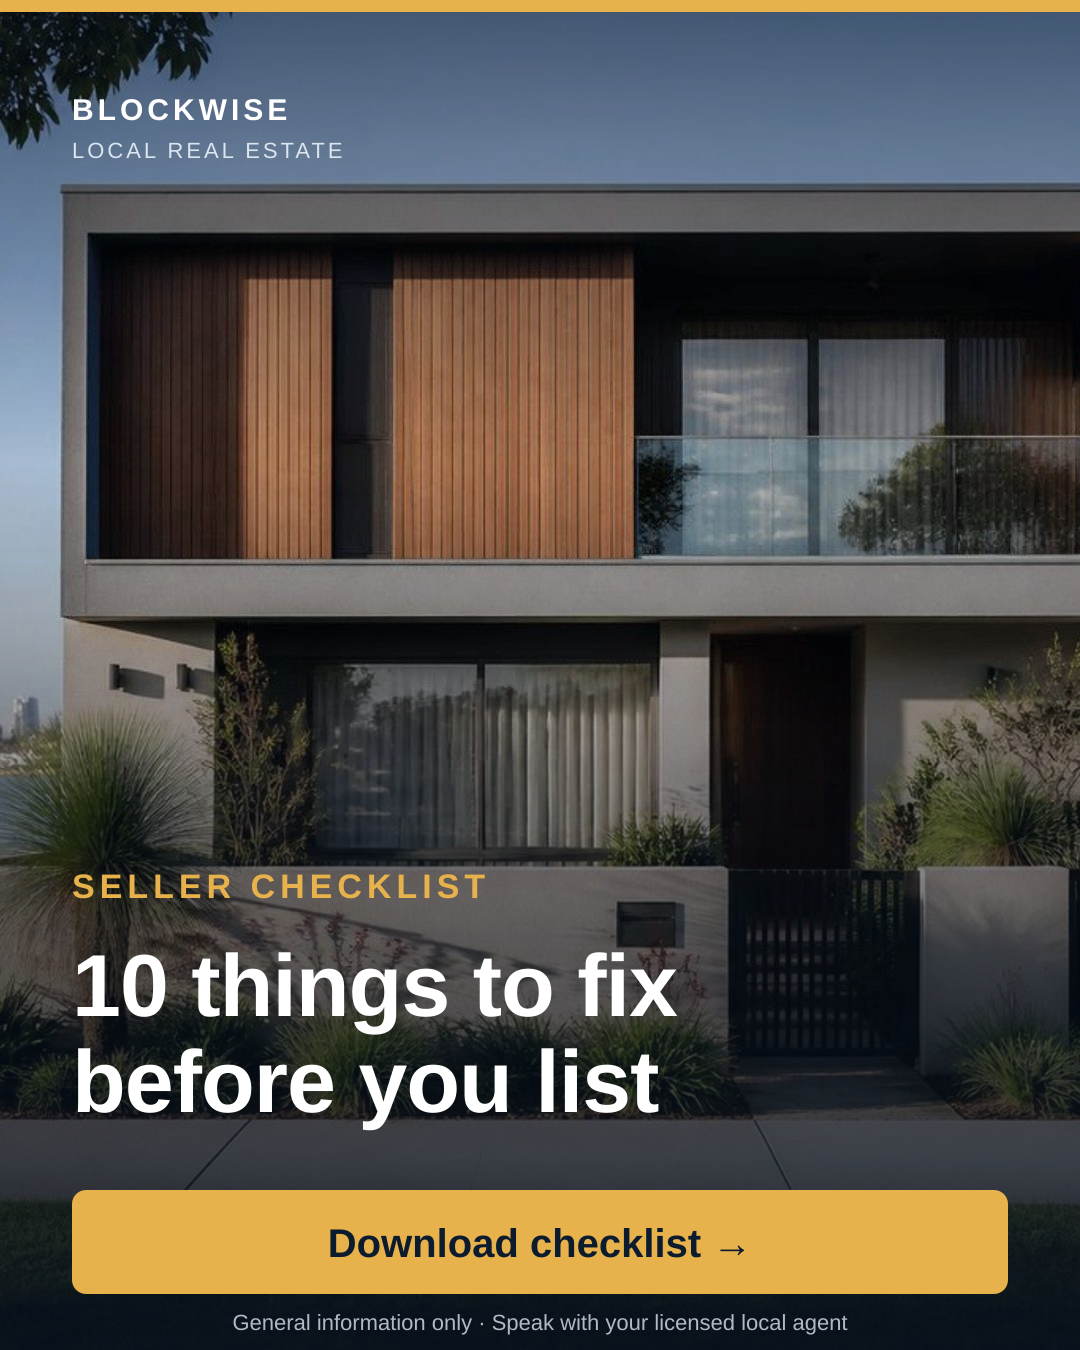
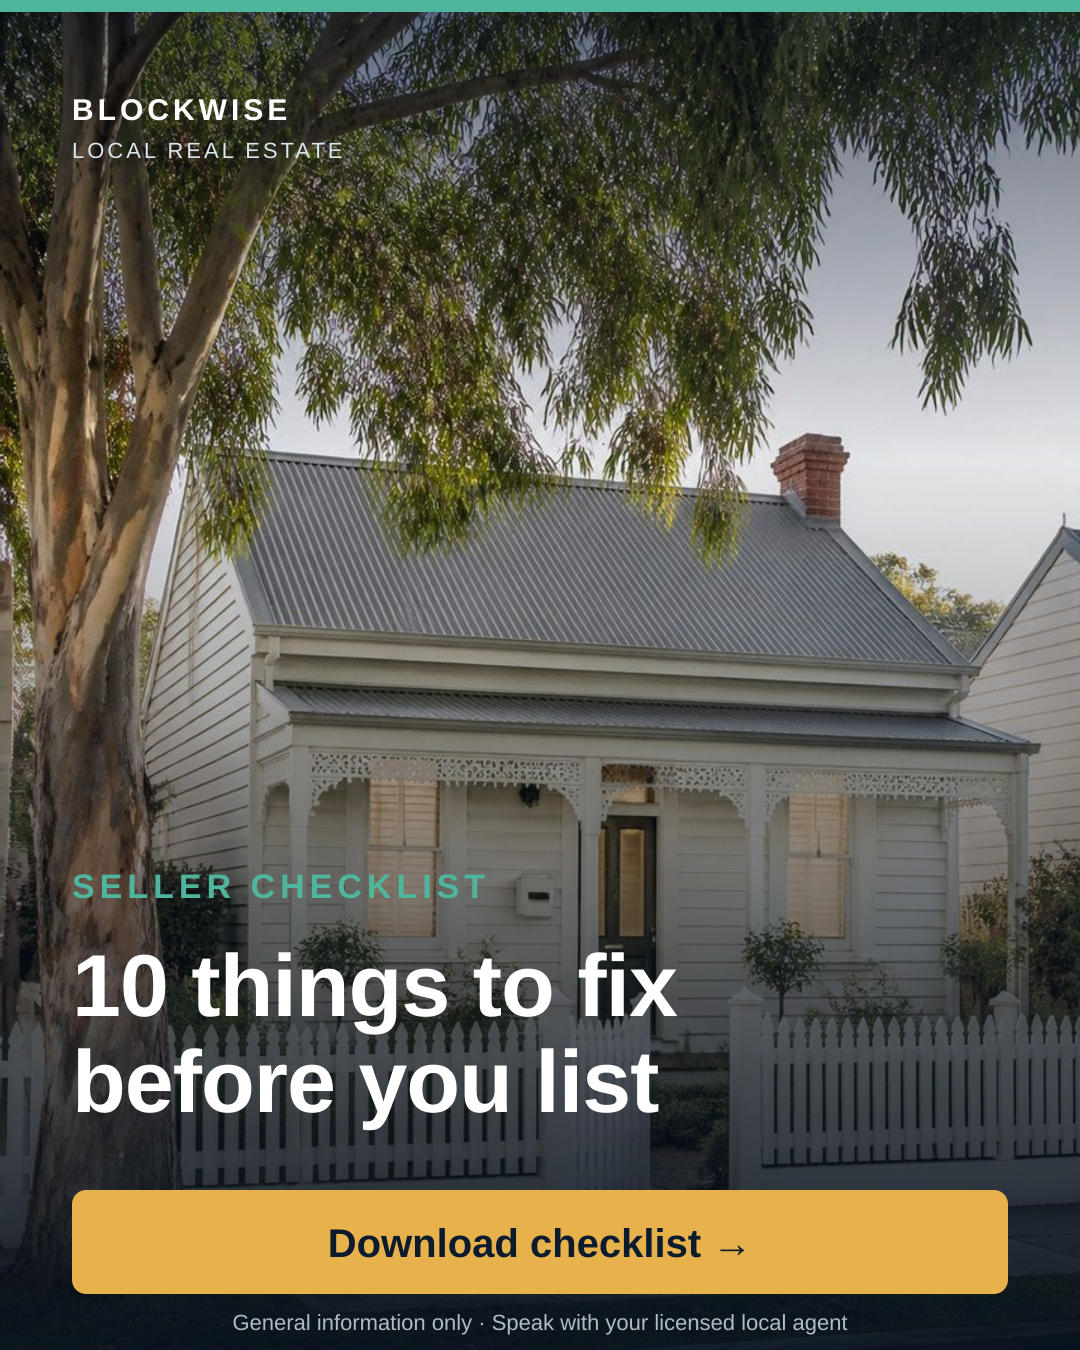
Bust stale template images in the PWA cache and vary the cards
The service worker caches /ads/* cache-first at stable URLs, so updated
template creatives never reached devices that had cached the old ones — the
gallery kept showing the previous (samey) cards. Bump PWA_CACHE_VERSION so the
activate handler drops the old static cache and refetches.

Also diversify the generated cards: per-template accent colour and photo crop
position, so even where the four base photos repeat, no two cards read the same.

https://claude.ai/code/session_019ro6Te2J9hZkc1fnm7D6z8

diff --git a/src/lib/pwa/sw-policy.ts b/src/lib/pwa/sw-policy.ts
@@ -1,5 +1,8 @@
 export const PWA_CACHE_PREFIX = "blockwise-pwa";
-export const PWA_CACHE_VERSION = "v1";
+// Bump when shipped static assets under cached prefixes (e.g. /ads/) change at a
+// stable URL — the activate handler drops older caches, so devices refetch them
+// instead of serving a stale cache-first copy.
+export const PWA_CACHE_VERSION = "v2";
 export const STATIC_CACHE_NAME = `${PWA_CACHE_PREFIX}-${PWA_CACHE_VERSION}-static`;
 export const OFFLINE_FALLBACK_URL = "/offline.html";
 
